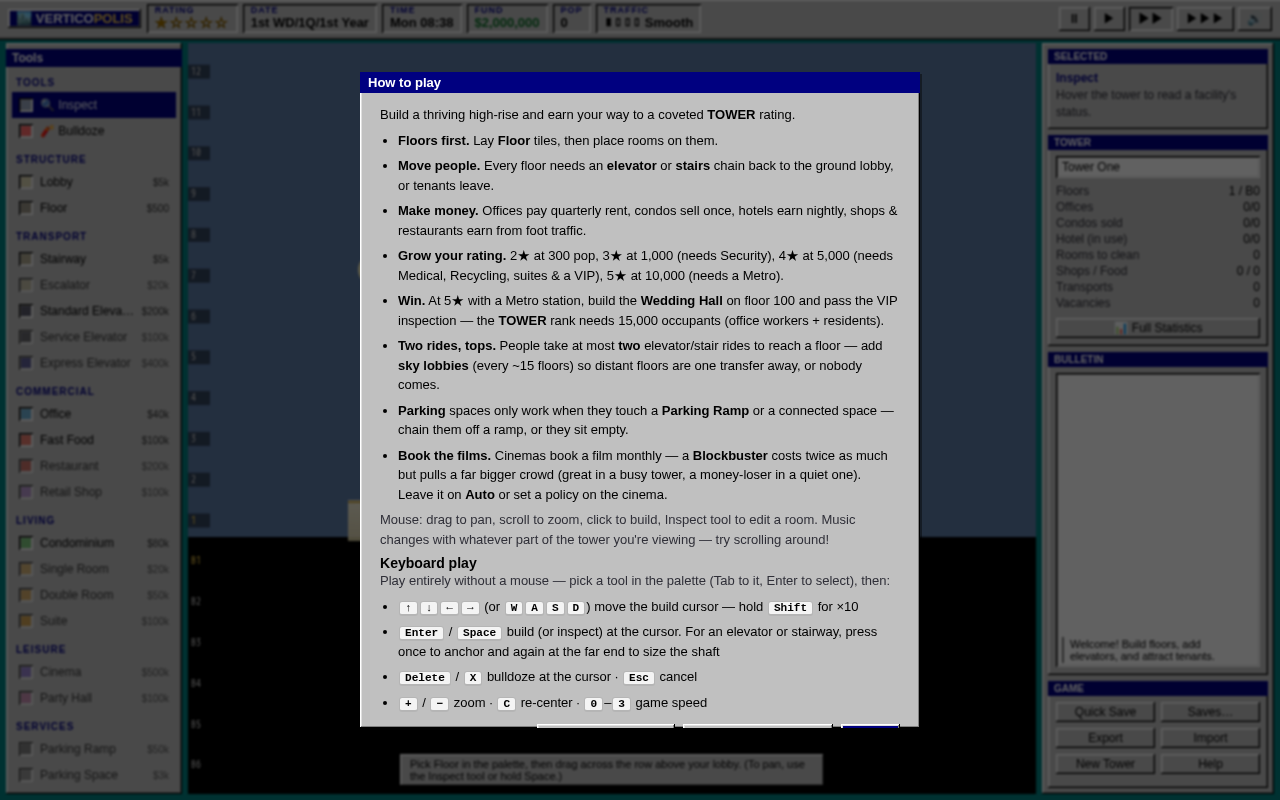
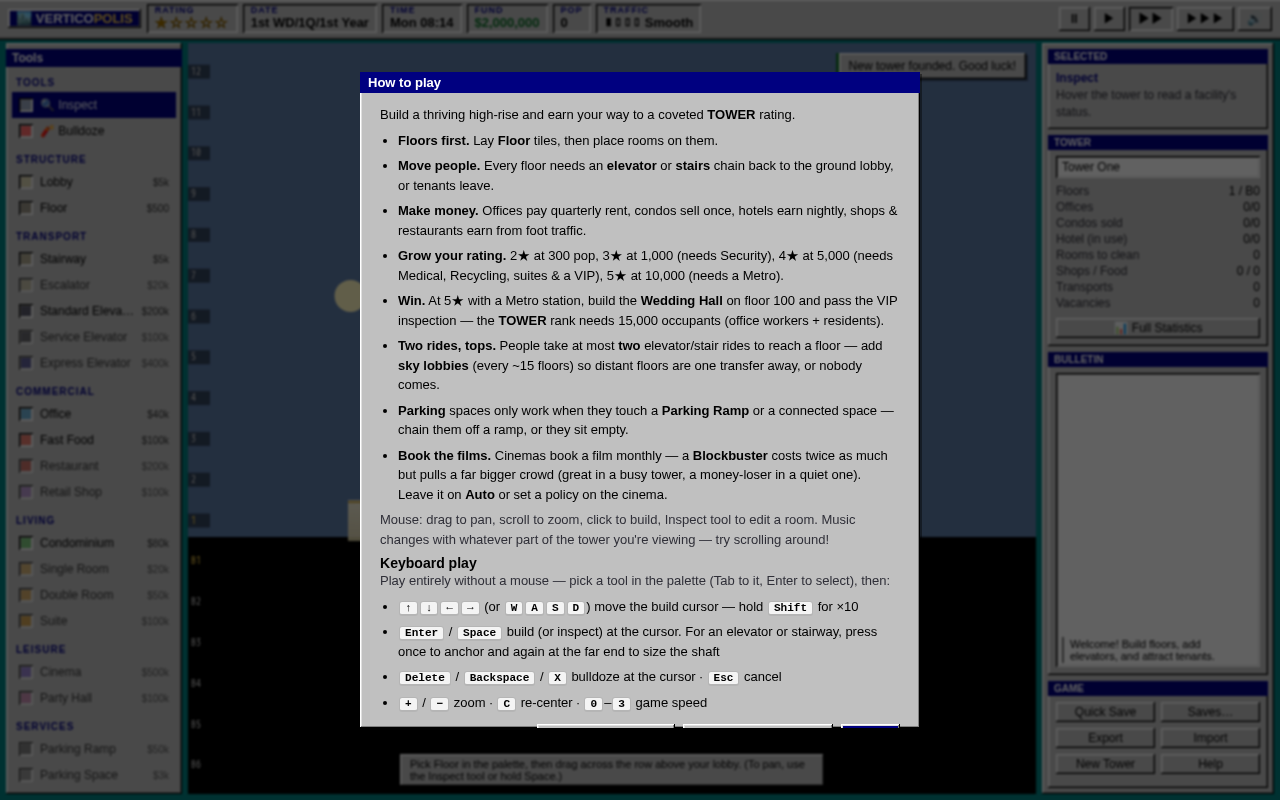
Address keyboard-help nits (Backspace hint, legacy Spacebar key)
- Help now lists Backspace alongside Delete/X for bulldoze.
- bindKeys accepts the legacy "Spacebar" key value (older browsers) for commit,
  matching makeActivatable.

Claude-Session: https://claude.ai/code/session_019NA2c4AsAgUYb2ST9bkXi8

Changed region(s): [[0.6562, 0.0625, 0.8125, 0.125], [0.375, 0.8125, 0.5938, 0.875], [0.25, 0.3438, 0.2812, 0.4062]]

diff --git a/src/main.ts b/src/main.ts
@@ -493,7 +493,7 @@ class GameApp {
         case "ArrowRight": case "d": case "D": this.moveCursor(step, 0); break;
         case "ArrowUp": case "w": case "W": this.moveCursor(0, step); break;
         case "ArrowDown": case "s": case "S": this.moveCursor(0, -step); break;
-        case "Enter": case " ": this.commitCursor(); break;
+        case "Enter": case " ": case "Spacebar": this.commitCursor(); break;
         case "Delete": case "Backspace": case "x": case "X": this.bulldozeCursor(); break;
         case "+": case "=": this.engine.zoomBy(1.15); return;
         case "-": case "_": this.engine.zoomBy(1 / 1.15); return;

diff --git a/src/ui/UI.ts b/src/ui/UI.ts
@@ -569,7 +569,7 @@ export class UI {
       <ul class="help-keys">
         <li><kbd>↑</kbd><kbd>↓</kbd><kbd>←</kbd><kbd>→</kbd> (or <kbd>W</kbd><kbd>A</kbd><kbd>S</kbd><kbd>D</kbd>) move the build cursor — hold <kbd>Shift</kbd> for ×10</li>
         <li><kbd>Enter</kbd> / <kbd>Space</kbd> build (or inspect) at the cursor. For an elevator or stairway, press once to anchor and again at the far end to size the shaft</li>
-        <li><kbd>Delete</kbd> / <kbd>X</kbd> bulldoze at the cursor · <kbd>Esc</kbd> cancel</li>
+        <li><kbd>Delete</kbd> / <kbd>Backspace</kbd> / <kbd>X</kbd> bulldoze at the cursor · <kbd>Esc</kbd> cancel</li>
         <li><kbd>+</kbd> / <kbd>−</kbd> zoom · <kbd>C</kbd> re-center · <kbd>0</kbd>–<kbd>3</kbd> game speed</li>
       </ul>
       <div class="modal-actions"><button data-act="reduce-motion"></button><button data-act="replay-onboard"${replayAttr}>Replay Getting Started</button><button class="primary" data-act="close">Got it</button></div>